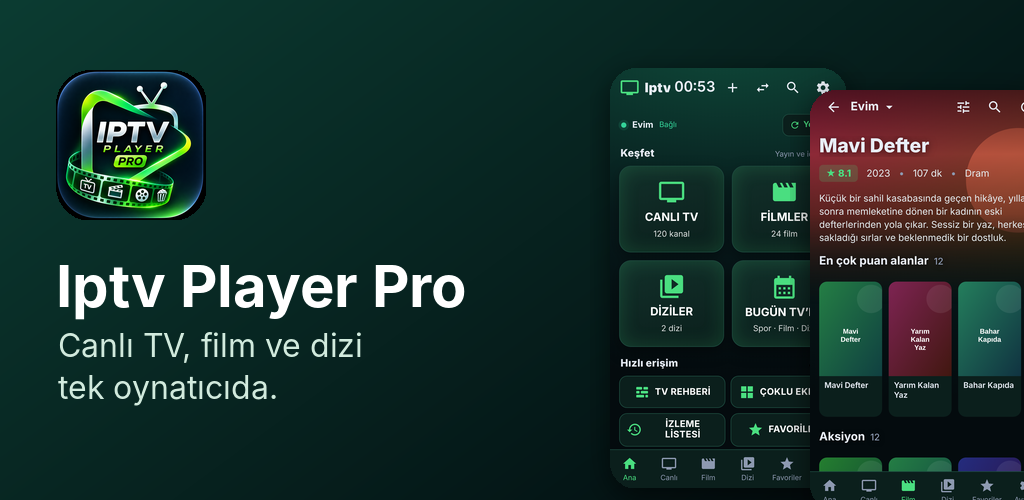
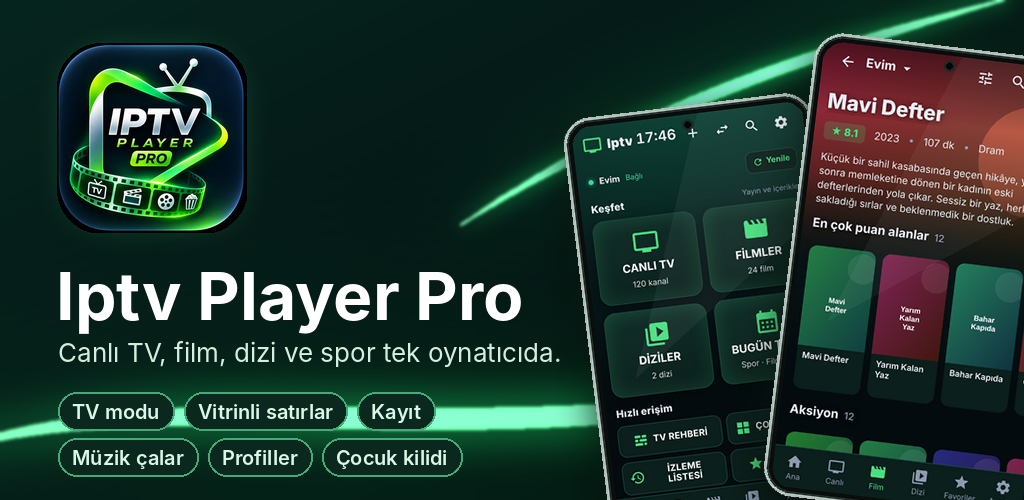
Mağaza görselleri: 14 başlıklı telefon görseli, TV ekranı ve yeni öne çıkan görsel/afiş
play/graphics telefon/ ve tv/ klasörlerine ayrıldı; eski 5 telefon görseli ve TV ekranı yenileriyle değişti.
Zip adımı alt klasörlerle birlikte paketler. Yayın rehberine Play'e konacak 8 görselin sırası eklendi.

Claude-Session: https://claude.ai/code/session_013kHKGAN61z3ambXFpmPinE

diff --git a/play/yayin-rehberi.md b/play/yayin-rehberi.md
@@ -102,11 +102,27 @@ First Google Play release: live TV, TV guide, movies and series, recording and d
 https://github.com/YonetimMerkezi/-ptvplayer/blob/main/gizlilik-politikasi.md
 ```
 
-**Görseller** (klasör: `play/graphics` – depoda ve sohbette):
+**Görseller** (klasör: `play/graphics`; telefondan indirmek için "play" sürüm kaydındaki `play-gorselleri.zip`, klasör düzeniyle aynı):
 - Uygulama simgesi 512×512: `simge-512.png`
 - Öne çıkan görsel 1024×500: `ozne-cikan-gorsel-1024x500.png`
-- Telefon ekran görüntüleri (1080×1920): `telefon-1…5`
-- Android TV: ekran görüntüsü 1920×1080 `tv-1-filmler-1920x1080.jpg`, TV afişi 1280×720 `tv-afisi-1280x720.png`
+- Android TV afişi 1280×720 (zorunlu): `tv-afisi-1280x720.png`
+- Android TV ekran görüntüsü 1920×1080 (en az 1 zorunlu): `tv/tv-1-tv-modu-1920x1080.jpg`
+- Telefon ekran görüntüleri 1080×1920: `telefon/01…14` (başlıklı ve açıklamalı; her biri gerçek uygulama ekranıyla)
+
+Play telefon için **en fazla 8** görsel alır; geri kalanı site, sosyal medya ve sonraki güncellemeler için saklanır. Önerilen 8 ve sıra:
+
+| Sıra | Dosya | Anlattığı özellik |
+|---|---|---|
+| 1 | `01-canli-tv` | Canlı TV, rehber, favoriler |
+| 2 | `02-vitrinli-satirlar` | Filmler ve diziler vitrinli satırlarda |
+| 3 | `03-dizi-takibi-hatirlatma` | Dizi takibi, hatırlatma, kayıt |
+| 4 | `04-spor-ve-takip` | Maçlar, skorlar, takım takibi |
+| 5 | `06-medya-merkezi-muzik` | Medya merkezi ve müzik çalar |
+| 6 | `09-kategori-klasor` | Kategori düzenleme, sıralama, klasör |
+| 7 | `10-profiller-cocuk-kilidi` | Profiller ve çocuk kilidi |
+| 8 | `12-tv-kumanda-esitleme` | TV kumanda ve TV ile eşitleme |
+
+Yedekte kalanlar: `05-indirme`, `07-resim-icinde-resim`, `08-goruntu-cozucu`, `11-baglanti-turleri`, `13-tema-merkezi`, `14-tv-modu`. Görsellerdeki kanal, dizi, takım ve şarkı adları uydurma örnek veridir; marka ya da gerçek içerik yoktur. `07` birleşik çizimdir (PiP penceresini Android sistemi çizer; uygulama ekranının üstüne küçük yayın penceresi konmuştur).
 
 ## 4. Uygulama içeriği formları
 
